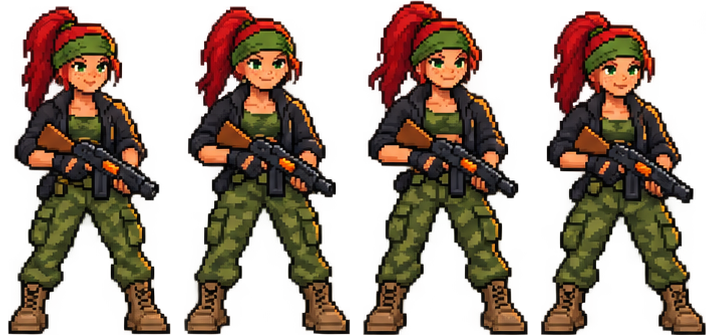
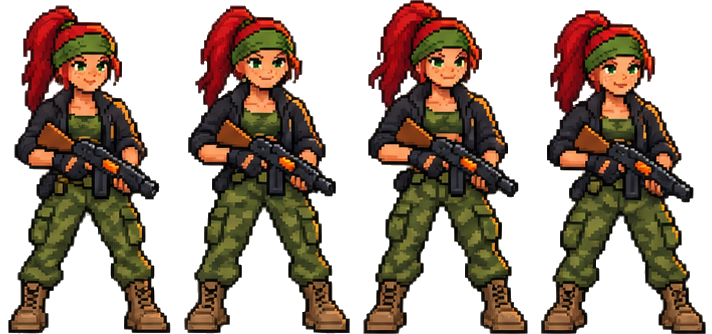
COMMANDO: clear the faint haze around idle frames (the hover outline drew it as a box)

diff --git a/contra/src/art.gen.js b/contra/src/art.gen.js
@@ -1641,7 +1641,7 @@ CG.DATA.art = {
   },
   "nova": {
    "path": "assets/atlas/idle_nova.png",
-   "fw": 198,
+   "fw": 197,
    "fh": 392,
    "bh": 392,
    "n": 4,
@@ -1650,16 +1650,16 @@ CG.DATA.art = {
   "kite": {
    "path": "assets/atlas/idle_kite.png",
    "fw": 178,
-   "fh": 335,
-   "bh": 335,
+   "fh": 334,
+   "bh": 334,
    "n": 4,
    "loop": 4
   },
   "brick": {
    "path": "assets/atlas/idle_brick.png",
-   "fw": 234,
-   "fh": 364,
-   "bh": 364,
+   "fw": 236,
+   "fh": 363,
+   "bh": 363,
    "n": 4,
    "loop": 4
   },
@@ -1714,8 +1714,8 @@ CG.DATA.art = {
   "duke": {
    "path": "assets/atlas/idle_duke.png",
    "fw": 239,
-   "fh": 386,
-   "bh": 386,
+   "fh": 385,
+   "bh": 385,
    "n": 4,
    "loop": 4
   }

diff --git a/contra/tools/build_art.py b/contra/tools/build_art.py
@@ -645,6 +645,10 @@ def build_idle():
         out.append(len(proj))
         return out
     def own_pixels(piece):
+        # the image tool leaves an almost invisible haze (alpha under ~1/5) around every pose; it shows up as a box as
+        # soon as an outline or shadow is drawn around the figure, so those pixels are cleared
+        piece = piece.copy()
+        piece[piece[..., 3] < 48] = 0
         # a cut can carry a sliver of the neighbouring pose (a few pixels of its rifle, or its faint glow) along the
         # left / right edge; keep the pose itself (and anything floating inside the frame, like a thrown grenade) and
         # drop the small bits that touch a side
